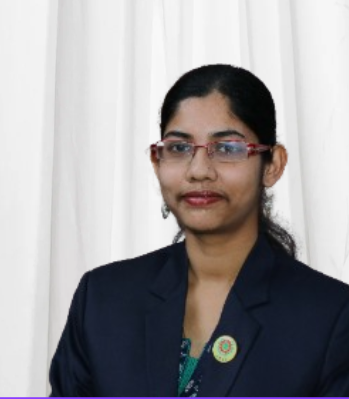
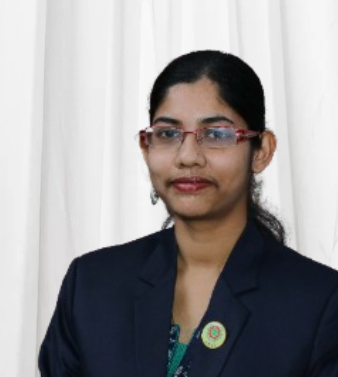
event section

diff --git a/asserts/css/styles.css b/asserts/css/styles.css
@@ -505,65 +505,79 @@
   padding: 2rem 0;
 } */
 
- #events {
-    background-image: linear-gradient(90deg, transparent, var(--red));
-  }
-  .gallery {
-    display: flex;
-    width: 100%;
-    max-width: 1200px;
-    overflow: hidden;
-    border-radius: 10px;
-    margin-left: auto;
-    margin-right: auto;
-  }
-  .gallery-item {
-    flex: 1 1 0;
-    overflow: hidden;
-    cursor: pointer;
-    transition: flex-grow 0.7s ease;
-    position: relative;
-  }
-  .gallery-item img {
-    width: 100%;
-    height: 320px;
-    object-fit: cover;
-    transition: transform 0.7s ease;
-    display: block;
-  }
-  .gallery-item.active {
-    flex-grow: 4;
-  }
-  .gallery-item.active img {
-    transform: scale(1.1);
-  }
-  .caption {
-    position: absolute;
-    bottom: 50px;
-    left: 30%;
-    color: rgb(253, 251, 251);
-    font-weight: bold;
-    text-shadow: 2px 5px 3px #d60c0c6a;
-    font-size: 2rem;
-  }
-  .gallery-item.active .caption {
-    opacity: 1;
-  }
-  
-@media (max-width: 800px) {
+
+#events {
+  background-image: linear-gradient(90deg, transparent, var(--red));
+}
+
+.gallery {
+  display: flex;
+  width: 100%;
+  max-width: 1200px;
+  overflow: hidden;
+  gap: 15px; /* space between boxes */
+  margin-left: auto;
+  margin-right: auto;
+}
+
+.gallery-item {
+  flex: 1 1 0;
+  overflow: hidden;
+  cursor: pointer;
+  transition: flex-grow 0.7s ease, box-shadow 0.3s ease;
+  position: relative;
+  border-radius: 10px;
+  background: #fff; /* box background */
+  box-shadow: 0 6px 15px rgba(0, 0, 0, 0.3); /* box shadow */
+}
+
+.gallery-item img {
+  width: 100%;
+  height: 320px;
+  object-fit: cover;
+  transition: transform 0.7s ease;
+  display: block;
+  border-radius: 10px 10px 0 0; /* rounded only top corners */
+}
+
+.gallery-item.active {
+  flex-grow: 4;
+  box-shadow: 0 10px 25px rgba(0, 0, 0, 0.4); /* bigger shadow */
+}
+
+.gallery-item.active img {
+  transform: scale(1.1);
+}
+
+.caption {
+  position: absolute;
+  bottom: 10px;
+  left: 50%;
+  transform: translateX(-50%);
+  color: #fff;
+  font-weight: bold;
+  font-size: 1.5rem;
+  text-shadow: 0 2px 6px rgba(0,0,0,0.9);
+  background: rgba(0, 0, 0, 0.4); /* dark semi-transparent bg */
+  padding: 5px 10px;
+  border-radius: 5px;
+}
+
+@media (max-width: 890px) {
   .event-card img {
-    height: 200px;     /* Smaller height for mobile */
+    height: 100px; /* Smaller height for mobile */
+  }
 }
-}
+
 
 
   /* Team */
   .member-name {
-  font-size: 1.6rem;
-  font-weight: 1000;
+  font-size: 6rem;
+  font-weight: 1500;
   font-family:var(--roboto);
   color: #ffffff; /* Strong accent color */
-  letter-spacing: 0.5px;
+  letter-spacing: 2px;
   position: relative;
   text-align: center;
   animation: fade-in-up 0.8s var(--san-serif-1);

diff --git a/index.html b/index.html
@@ -536,11 +536,11 @@
                <div class="team-member col-md-3 col-sm-6 col-12">
               <div class="team-img-container">
                 <div>
-                  <img src="./asserts/images/2025-2026/team/coordinator/alvinamaam (2).png"
-                    alt="Ms. Alvina Alphonso" />
+                  <img src="./asserts/images/2025-2026/team/coordinator/alvinamaam.png"
+                    alt="Ms. Alvina Lopes" />
                 </div>
               </div>
-              <h2 class="member-name">Ms. Alvina Alphonso</h2>
+              <h2 class="member-name">Ms. Alvina Lopes</h2>
               <h3 class="member-post">Co-ordinator</h3>
             </div> 
             <div class="team-member col-md-4 col-sm-6 col-12 col-md-pull-4">
@@ -567,10 +567,10 @@
               <div class="team-img-container">
                 <div>
                   <img src="./asserts/images/2025-2026/team/coordinator/Prajyotimaam.png"
-                    alt="Prajyoti D'silva" />
+                    alt="Prajyoti Dsilva" />
                 </div>
               </div>
-              <h2 class="member-name">Ms. Prajyoti D'silva</h2>
+              <h2 class="member-name">Ms. Prajyoti Dsilva</h2>
               <h3 class="member-post">Co-ordinator</h3>
             </div>
           </div>
